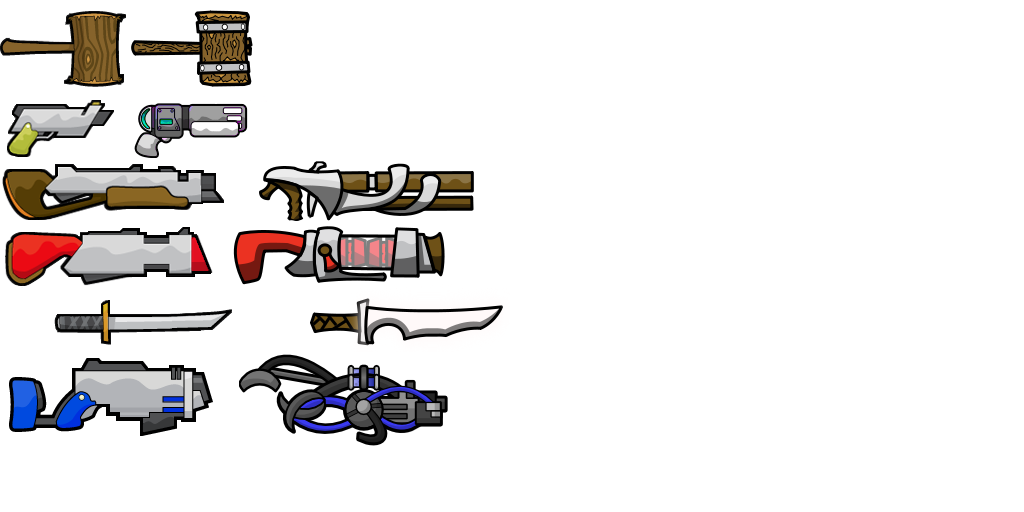
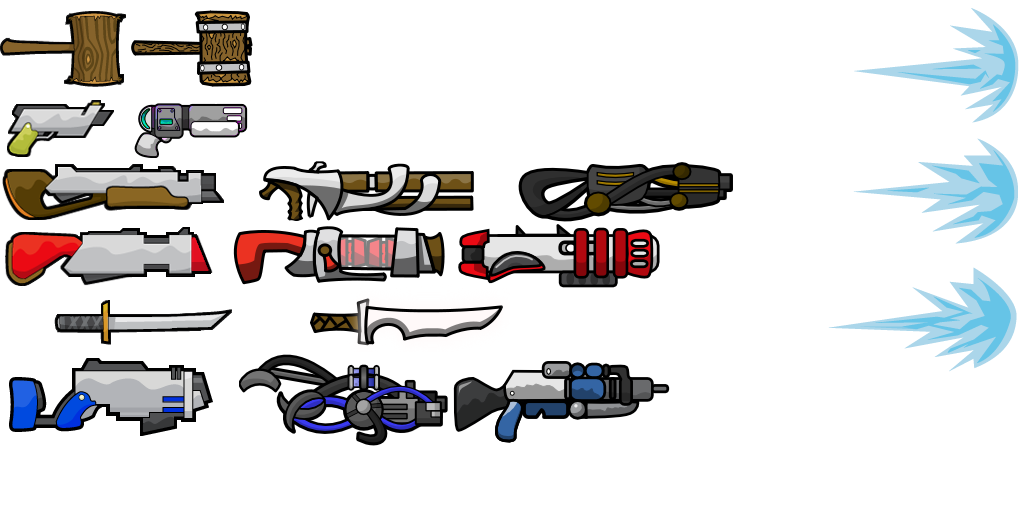
Menu support

diff --git a/src/game/client/gameclient.cpp b/src/game/client/gameclient.cpp
@@ -629,40 +629,61 @@ void CGameClient::ProcessEvents()
 			CNetEvent_DamageInd *ev = (CNetEvent_DamageInd *)pData;
 			//g_GameClient.m_pEffects->DamageIndicator(vec2(ev->m_X, ev->m_Y), GetDirection(ev->m_Angle));
 			
-			for (int i = 0; i < 30; i++)
+			// 0 - 200
+			int BloodAmount = g_Config.m_GoreBlood*2;
+			
+			for (int i = 0; i < BloodAmount; i++)
 				g_GameClient.m_pEffects->Blood(vec2(ev->m_X, ev->m_Y), RandomDir());
 			
 			
-			for (int c = 0; c < MAX_CLIENTS; c++)
+			if (g_Config.m_GoreTeeSplatter)
 			{
-				if (CustomStuff()->m_aPlayerInfo[c].m_InUse)
+				int TeeSplatter = 0;
+				if (BloodAmount > 0)
+					TeeSplatter = 1 + BloodAmount/60;
+				
+				for (int i = 0; i < TeeSplatter; i++)
 				{
-					if (abs(CustomStuff()->m_aPlayerInfo[c].Pos().x - ev->m_X) < 250 && abs(CustomStuff()->m_aPlayerInfo[c].Pos().y - ev->m_Y) < 250)
-						CustomStuff()->m_aPlayerInfo[c].AddTeeSplatter(atan2(CustomStuff()->m_aPlayerInfo[c].Pos().x - ev->m_X, CustomStuff()->m_aPlayerInfo[c].Pos().y - ev->m_Y));						
+					for (int c = 0; c < MAX_CLIENTS; c++)
+					{
+						if (CustomStuff()->m_aPlayerInfo[c].m_InUse)
+						{
+							if (abs(CustomStuff()->m_aPlayerInfo[c].Pos().x - ev->m_X) < 250 && abs(CustomStuff()->m_aPlayerInfo[c].Pos().y - ev->m_Y) < 250)
+								CustomStuff()->m_aPlayerInfo[c].AddTeeSplatter(atan2(CustomStuff()->m_aPlayerInfo[c].Pos().x - ev->m_X, CustomStuff()->m_aPlayerInfo[c].Pos().y - ev->m_Y));						
+						}
+					}
 				}
 			}
-			
-			for (int i = 0; i < 2; i++)
-			{
-				vec2 p = vec2(ev->m_X, ev->m_Y);
-				vec2 v =  RandomDir()*(10.0f+frandom()*8.0f);
-				float a = GetAngle(v);
 				
-				for (int l = 0; l < 12; l++)
+			if (g_Config.m_GoreWallSplatter)
+			{
+				int WallSplatter = 0;
+				if (BloodAmount > 0)
+					WallSplatter = 1 + BloodAmount/50;
+				
+				
+				for (int i = 0; i < WallSplatter; i++)
 				{
-					p += v;
-					if (Collision()->GetCollisionAt(p.x, p.y)&CCollision::COLFLAG_SOLID)
-					{
-						p += v*2;
-						
-						if (!Collision()->GetCollisionAt(p.x-14, p.y-14)&CCollision::COLFLAG_SOLID ||
-							!Collision()->GetCollisionAt(p.x+14, p.y-14)&CCollision::COLFLAG_SOLID ||
-							!Collision()->GetCollisionAt(p.x+14, p.y+14)&CCollision::COLFLAG_SOLID ||
-							!Collision()->GetCollisionAt(p.x-14, p.y+14)&CCollision::COLFLAG_SOLID)
-							break;
+					vec2 p = vec2(ev->m_X, ev->m_Y);
+					vec2 v =  RandomDir()*(10.0f+frandom()*8.0f);
+					float a = GetAngle(v);
 					
-						g_GameClient.m_pEffects->Splatter(p, a);
-						break;
+					for (int l = 0; l < 12; l++)
+					{
+						p += v;
+						if (Collision()->GetCollisionAt(p.x, p.y)&CCollision::COLFLAG_SOLID)
+						{
+							p += v*2;
+							
+							if (!Collision()->GetCollisionAt(p.x-14, p.y-14)&CCollision::COLFLAG_SOLID ||
+								!Collision()->GetCollisionAt(p.x+14, p.y-14)&CCollision::COLFLAG_SOLID ||
+								!Collision()->GetCollisionAt(p.x+14, p.y+14)&CCollision::COLFLAG_SOLID ||
+								!Collision()->GetCollisionAt(p.x-14, p.y+14)&CCollision::COLFLAG_SOLID)
+								break;
+						
+							g_GameClient.m_pEffects->Splatter(p, a);
+							break;
+						}
 					}
 				}
 			}

diff --git a/src/game/client/components/menus_settings.cpp b/src/game/client/components/menus_settings.cpp
@@ -856,6 +856,54 @@ void CMenus::RenderSettingsSound(CUIRect MainView)
 	}
 }
 
+
+
+
+// custom menu for the client
+void CMenus::RenderSettingsCustom(CUIRect MainView)
+{
+	CUIRect Button;
+	MainView.VSplitMid(&MainView, 0);
+	
+	// blood slider
+	{
+		CUIRect Button, Label;
+		MainView.HSplitTop(5.0f, &Button, &MainView);
+		MainView.HSplitTop(20.0f, &Button, &MainView);
+		Button.VSplitLeft(190.0f, &Label, &Button);
+		Button.HMargin(2.0f, &Button);
+		UI()->DoLabelScaled(&Label, "Blood amount", 14.0f, -1);
+		g_Config.m_GoreBlood = (int)(DoScrollbarH(&g_Config.m_GoreBlood, &Button, g_Config.m_GoreBlood/100.0f)*100.0f);
+		MainView.HSplitTop(20.0f, 0, &MainView);
+	}
+
+	MainView.HSplitTop(20.0f, &Button, &MainView);
+	if(DoButton_CheckBox(&g_Config.m_GoreWallSplatter, Localize("Enable wall splatter"), g_Config.m_GoreWallSplatter, &Button))
+		g_Config.m_GoreWallSplatter ^= 1;
+
+	MainView.HSplitTop(20.0f, &Button, &MainView);
+	if(DoButton_CheckBox(&g_Config.m_GoreTeeSplatter, Localize("Enable tee splatter"), g_Config.m_GoreTeeSplatter, &Button))
+		g_Config.m_GoreTeeSplatter ^= 1;
+
+	MainView.HSplitTop(20.0f, &Button, &MainView);
+	if(DoButton_CheckBox(&g_Config.m_GoreAimLine, Localize("Enable aim line"), g_Config.m_GoreAimLine, &Button))
+		g_Config.m_GoreAimLine ^= 1;
+
+	MainView.HSplitTop(20.0f, &Button, &MainView);
+	if(DoButton_CheckBox(&g_Config.m_GoreRapidFire, Localize("Enable rapid fire"), g_Config.m_GoreRapidFire, &Button))
+		g_Config.m_GoreRapidFire ^= 1;
+
+	MainView.HSplitTop(20.0f, &Button, &MainView);
+	if(DoButton_CheckBox(&g_Config.m_GoreRandomWeapons, Localize("Enable random weapons"), g_Config.m_GoreRandomWeapons, &Button))
+		g_Config.m_GoreRandomWeapons ^= 1;
+}
+
+
+
+
+
+
+
 class CLanguage
 {
 public:
@@ -1001,7 +1049,8 @@ void CMenus::RenderSettings(CUIRect MainView)
 		("Tee"),
 		Localize("Controls"),
 		Localize("Graphics"),
-		Localize("Sound")};
+		Localize("Sound"),
+		"Custom"};
 
 	int NumTabs = (int)(sizeof(aTabs)/sizeof(*aTabs));
 
@@ -1029,6 +1078,8 @@ void CMenus::RenderSettings(CUIRect MainView)
 		RenderSettingsGraphics(MainView);
 	else if(s_SettingsPage == 6)
 		RenderSettingsSound(MainView);
+	else if(s_SettingsPage == 7)
+		RenderSettingsCustom(MainView);
 
 	if(m_NeedRestartGraphics || m_NeedRestartSound)
 		UI()->DoLabel(&RestartWarning, Localize("You must restart the game for all settings to take effect."), 15.0f, -1);

diff --git a/src/game/client/customstuff/playerinfo.cpp b/src/game/client/customstuff/playerinfo.cpp
@@ -6,6 +6,7 @@
 
 #include <engine/graphics.h>
 #include <game/client/render.h>
+#include <engine/shared/config.h>
 
 
 
@@ -26,21 +27,24 @@ void CPlayerInfo::Reset()
 	for (int i = 0; i < MAX_TEESPLATTER; i++)
 		m_aTeeSplatter[i].Reset();
 	
-	/*
-	m_aWeaponSprite[WEAPON_HAMMER] = SPRITE_WEAPON_HAMMER01+rand()%2;
-	m_aWeaponSprite[WEAPON_GUN] = SPRITE_WEAPON_GUN01+rand()%2;
-	m_aWeaponSprite[WEAPON_SHOTGUN] = SPRITE_WEAPON_SHOTGUN01+rand()%2;
-	m_aWeaponSprite[WEAPON_GRENADE] = SPRITE_WEAPON_GRENADE01+rand()%2;
-	m_aWeaponSprite[WEAPON_RIFLE] = SPRITE_WEAPON_RIFLE01+rand()%2;
-	m_aWeaponSprite[WEAPON_NINJA] = SPRITE_WEAPON_NINJA01+rand()%2;
-	*/
-
-	m_aWeaponSprite[WEAPON_HAMMER] = SPRITE_WEAPON_HAMMER01;
-	m_aWeaponSprite[WEAPON_GUN] = SPRITE_WEAPON_GUN01;
-	m_aWeaponSprite[WEAPON_SHOTGUN] = SPRITE_WEAPON_SHOTGUN01;
-	m_aWeaponSprite[WEAPON_GRENADE] = SPRITE_WEAPON_GRENADE01;
-	m_aWeaponSprite[WEAPON_RIFLE] = SPRITE_WEAPON_RIFLE01;
-	m_aWeaponSprite[WEAPON_NINJA] = SPRITE_WEAPON_NINJA01;
+	if (g_Config.m_GoreRandomWeapons)
+	{	
+		m_aWeaponSprite[WEAPON_HAMMER] = SPRITE_WEAPON_HAMMER01+rand()%2;
+		m_aWeaponSprite[WEAPON_GUN] = SPRITE_WEAPON_GUN01+rand()%2;
+		m_aWeaponSprite[WEAPON_SHOTGUN] = SPRITE_WEAPON_SHOTGUN01+rand()%3;
+		m_aWeaponSprite[WEAPON_GRENADE] = SPRITE_WEAPON_GRENADE01+rand()%3;
+		m_aWeaponSprite[WEAPON_RIFLE] = SPRITE_WEAPON_RIFLE01+rand()%3;
+		m_aWeaponSprite[WEAPON_NINJA] = SPRITE_WEAPON_NINJA01+rand()%2;
+	}
+	else
+	{
+		m_aWeaponSprite[WEAPON_HAMMER] = SPRITE_WEAPON_HAMMER01;
+		m_aWeaponSprite[WEAPON_GUN] = SPRITE_WEAPON_GUN01;
+		m_aWeaponSprite[WEAPON_SHOTGUN] = SPRITE_WEAPON_SHOTGUN01;
+		m_aWeaponSprite[WEAPON_GRENADE] = SPRITE_WEAPON_GRENADE01;
+		m_aWeaponSprite[WEAPON_RIFLE] = SPRITE_WEAPON_RIFLE01;
+		m_aWeaponSprite[WEAPON_NINJA] = SPRITE_WEAPON_NINJA01;
+	}
 }
 
 

diff --git a/datasrc/content.py b/datasrc/content.py
@@ -375,9 +375,9 @@ container.sprites.Add(Sprite("weapon_rifle_proj", set_game, 10,12,2,2))
 container.sprites.Add(Sprite("hook_chain", set_game, 2,0,1,1))
 container.sprites.Add(Sprite("hook_head", set_game, 3,0,2,1))
 
-container.sprites.Add(Sprite("weapon_ninja_muzzle1", set_game, 25,0,7,4))
-container.sprites.Add(Sprite("weapon_ninja_muzzle2", set_game, 25,4,7,4))
-container.sprites.Add(Sprite("weapon_ninja_muzzle3", set_game, 25,8,7,4))
+container.sprites.Add(Sprite("weapon_ninja_muzzle1", set_weapons, 25,0,7,4))
+container.sprites.Add(Sprite("weapon_ninja_muzzle2", set_weapons, 25,4,7,4))
+container.sprites.Add(Sprite("weapon_ninja_muzzle3", set_weapons, 25,8,7,4))
 
 container.sprites.Add(Sprite("pickup_health", set_game, 10,2,2,2))
 container.sprites.Add(Sprite("pickup_armor", set_game, 12,2,2,2))
@@ -396,15 +396,18 @@ container.sprites.Add(Sprite("weapon_gun02", set_weapons, 4,3,4,2))
 
 container.sprites.Add(Sprite("weapon_shotgun01", set_weapons, 0,5,8,2))
 container.sprites.Add(Sprite("weapon_shotgun02", set_weapons, 8,5,8,2))
+container.sprites.Add(Sprite("weapon_shotgun03", set_weapons, 16,5,8,2))
 
 container.sprites.Add(Sprite("weapon_grenade01", set_weapons, 0,7,7,2))
 container.sprites.Add(Sprite("weapon_grenade02", set_weapons, 7,7,7,2))
+container.sprites.Add(Sprite("weapon_grenade03", set_weapons, 14,7,7,2))
 
 container.sprites.Add(Sprite("weapon_ninja01", set_game, 0,9,8,2))
 container.sprites.Add(Sprite("weapon_ninja02", set_game, 8,9,8,2))
 
 container.sprites.Add(Sprite("weapon_rifle01", set_weapons, 0,11,7,3))
 container.sprites.Add(Sprite("weapon_rifle02", set_weapons, 7,11,7,3))
+container.sprites.Add(Sprite("weapon_rifle03", set_weapons, 14,11,7,3))
 
 
 

diff --git a/src/engine/shared/config_variables.h b/src/engine/shared/config_variables.h
@@ -55,6 +55,20 @@ MACRO_CONFIG_INT(SndMusic, snd_enable_music, 1, 0, 1, CFGFLAG_SAVE|CFGFLAG_CLIEN
 MACRO_CONFIG_INT(SndVolume, snd_volume, 100, 0, 100, CFGFLAG_SAVE|CFGFLAG_CLIENT, "Sound volume")
 MACRO_CONFIG_INT(SndDevice, snd_device, -1, 0, 0, CFGFLAG_SAVE|CFGFLAG_CLIENT, "(deprecated) Sound device to use")
 
+
+
+
+MACRO_CONFIG_INT(GoreBlood, gore_blood, 30, 0, 100, CFGFLAG_SAVE|CFGFLAG_CLIENT, "Blood amount")
+MACRO_CONFIG_INT(GoreWallSplatter, gore_wallsplatter, 1, 0, 1, CFGFLAG_SAVE|CFGFLAG_CLIENT, "Wall splatter enable")
+MACRO_CONFIG_INT(GoreTeeSplatter, gore_teesplatter, 1, 0, 1, CFGFLAG_SAVE|CFGFLAG_CLIENT, "Tee splatter enable")
+
+MACRO_CONFIG_INT(GoreAimLine, gore_aimline, 0, 0, 1, CFGFLAG_SAVE|CFGFLAG_CLIENT, "Aim line enable")
+MACRO_CONFIG_INT(GoreRapidFire, gore_rapidfire, 0, 0, 1, CFGFLAG_SAVE|CFGFLAG_CLIENT, "Rapid fire enable")
+MACRO_CONFIG_INT(GoreRandomWeapons, gore_randomweapons, 0, 0, 1, CFGFLAG_SAVE|CFGFLAG_CLIENT, "Random weapons enable")
+
+
+
+
 MACRO_CONFIG_INT(SndNonactiveMute, snd_nonactive_mute, 0, 0, 1, CFGFLAG_SAVE|CFGFLAG_CLIENT, "")
 
 MACRO_CONFIG_INT(GfxScreenWidth, gfx_screen_width, 0, 0, 0, CFGFLAG_SAVE|CFGFLAG_CLIENT, "Screen resolution width")

diff --git a/src/game/client/components/menus.h b/src/game/client/components/menus.h
@@ -270,6 +270,7 @@ class CMenus : public CComponent
 	void RenderSettingsControls(CUIRect MainView);
 	void RenderSettingsGraphics(CUIRect MainView);
 	void RenderSettingsSound(CUIRect MainView);
+	void RenderSettingsCustom(CUIRect MainView);
 	void RenderSettings(CUIRect MainView);
 
 	void SetActive(bool Active);

diff --git a/src/engine/client/input.cpp b/src/engine/client/input.cpp
@@ -125,7 +125,6 @@ int CInput::KeyState(int Key)
 }
 
 
-bool rapidFire = false;
 bool mouseLeft, rapidState;
 
 int rapidCount = 0;
@@ -398,7 +397,7 @@ int CInput::Update()
 
 		}
 		
-		if (mouseLeft && rapidFire)
+		if (mouseLeft && g_Config.m_GoreRandomWeapons)
 		{
 			rapidCount++;
 			if (rapidCount > 1)

diff --git a/src/game/client/components/players.cpp b/src/game/client/components/players.cpp
@@ -332,7 +332,7 @@ void CPlayers::RenderPlayer(
 	
 
 	// draw aim line 
-	if(pPlayerInfo->m_Local)
+	if(pPlayerInfo->m_Local && g_Config.m_GoreAimLine)
 	{
 		vec2 Pos = Position + m_pClient->m_pControls->m_MousePos; //Position + Direction * 500.0f;
 		vec2 From = Position;
